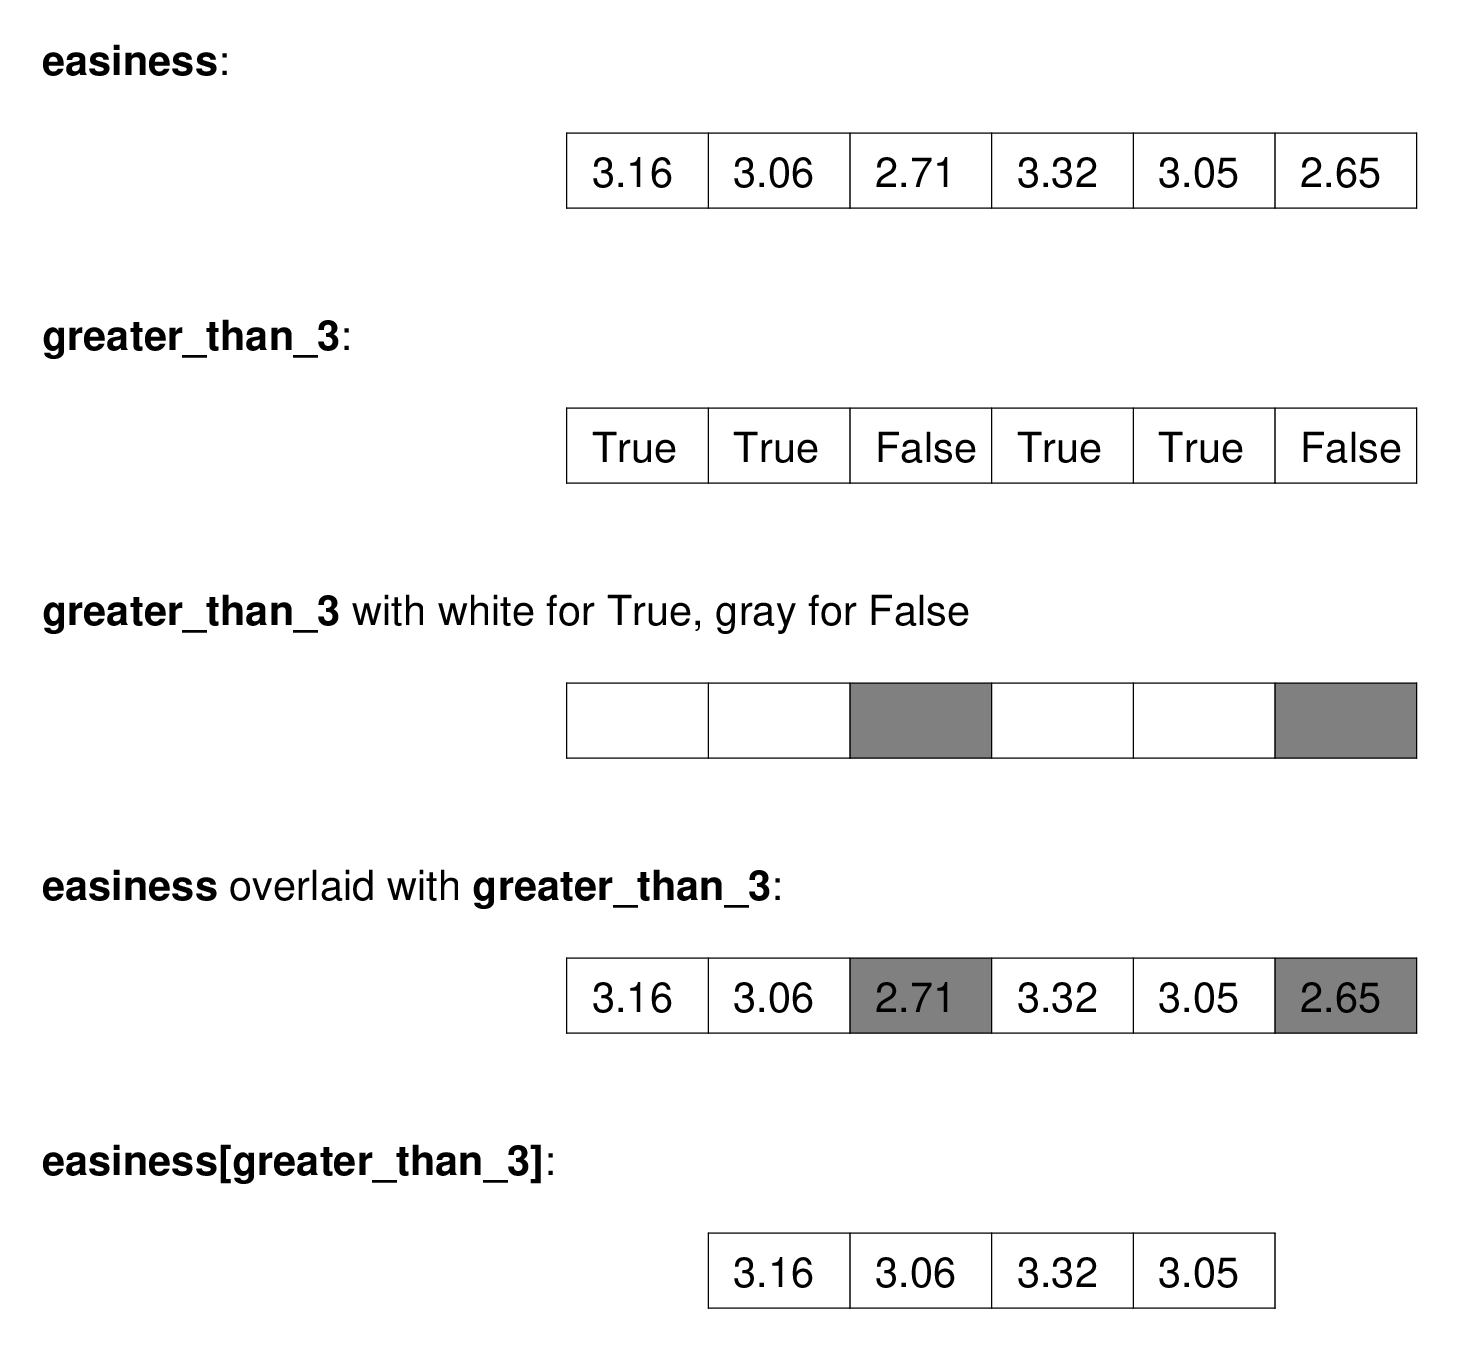
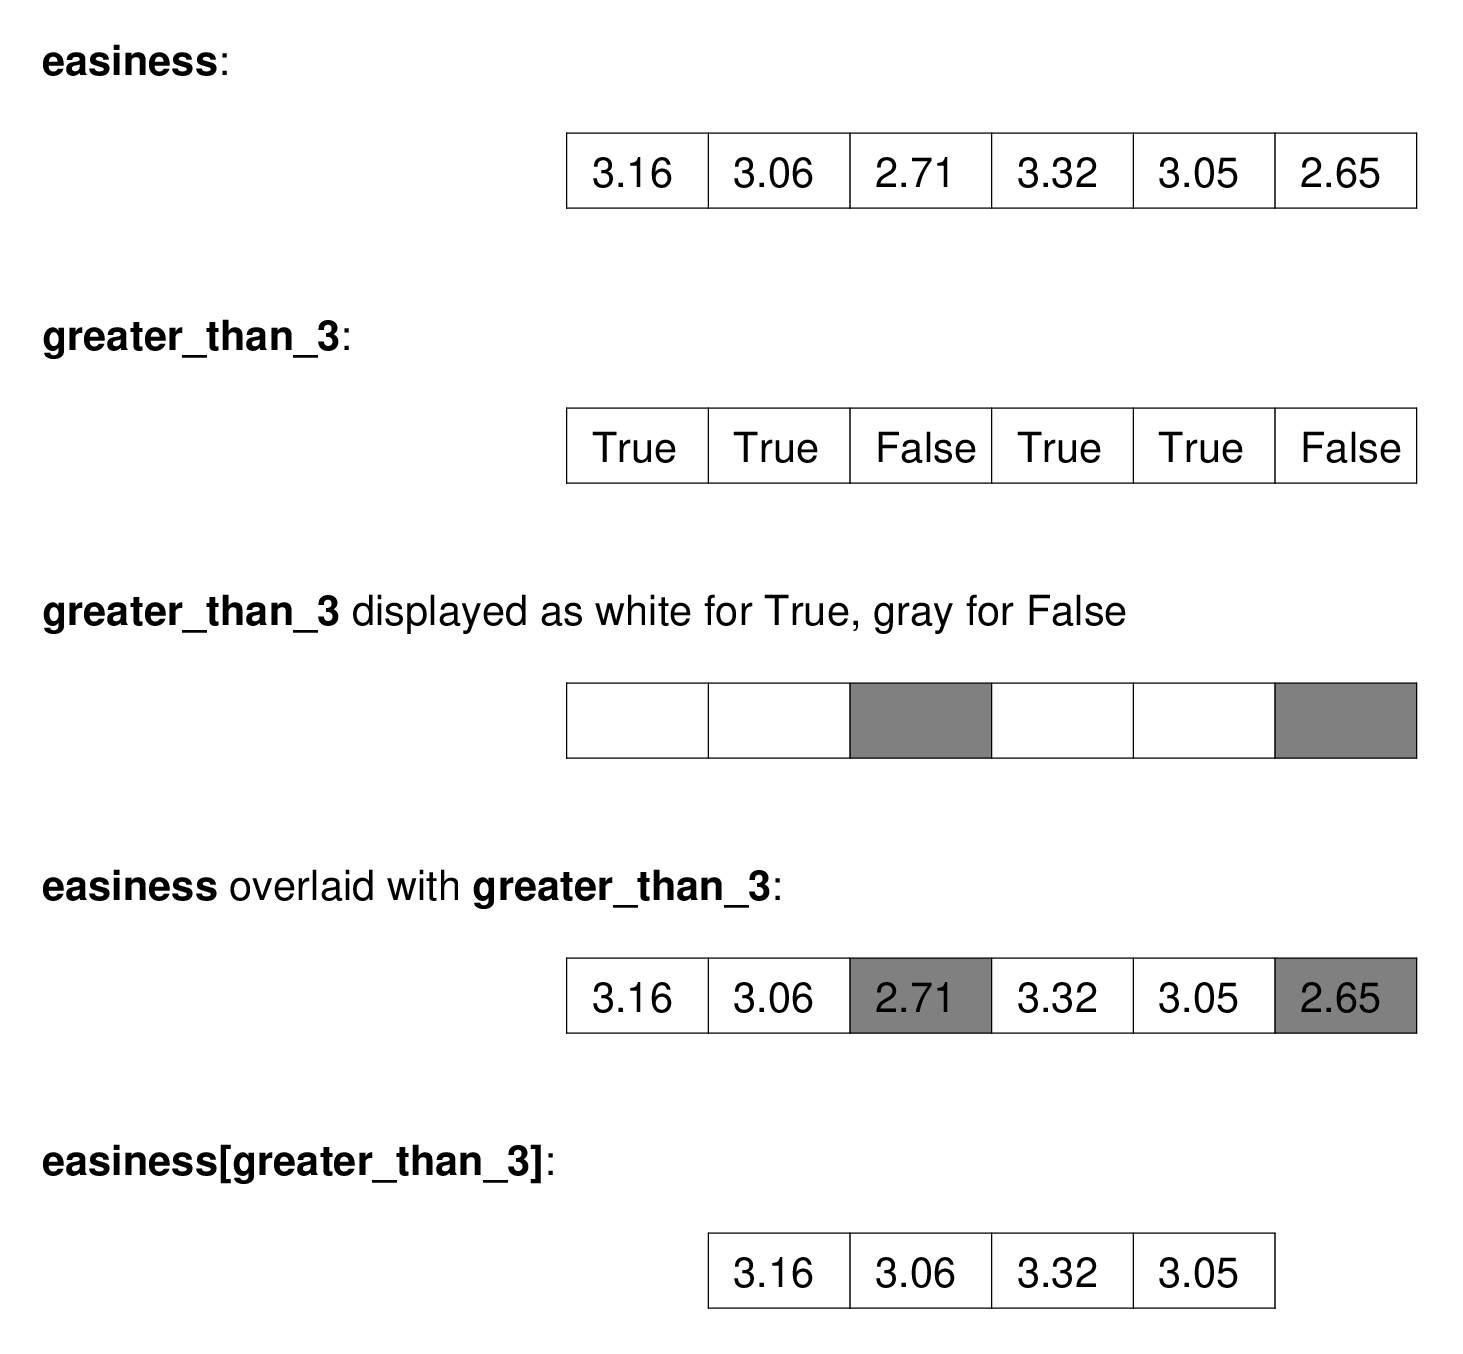
Add graphic for re-using Boolean index.

Changed region(s): [[0.2461, 0.4343, 0.769, 0.4653]]

diff --git a/images/make_boolean_examples.py b/images/make_boolean_examples.py
@@ -21,8 +21,7 @@ disciplines = big_courses['Discipline'].values
 easiness = big_courses['Easiness'].values
 quality = big_courses['Overall Quality'].values
 
-out_froot = "easiness_values"
-pdf_fname = out_froot + '.pdf'
+pdf_fname = "easiness_values.pdf"
 doc = SimpleDocTemplate(pdf_fname, pagesize=letter)
 
 col_widths = 34
@@ -69,20 +68,66 @@ def dp(text, table):
 doc.build(sum([
     dp('<b>easiness</b>:', t1),
     dp('<b>greater_than_3</b>:', t2),
-    dp('<b>greater_than_3</b> with white for True, gray for False', t3),
+    dp('<b>greater_than_3</b> displayed as white for True, gray for False',
+       t3),
     dp('<b>easiness</b> overlaid with <b>greater_than_3</b>:', t4),
     dp('<b>easiness[greater_than_3]</b>:', t5),
 ], []))
 
-# From some TeX distribution.
-check_call(['pdfcrop', pdf_fname,
-            '--margins', '10 10 10 10',
-            pdf_fname])
 
-# ImageMagick
-check_call(['convert', '-strip',
-            '-density', '300',
-            pdf_fname,
-            out_froot + '.png'])
+def write_png(pdf_fname):
+    # From some TeX distribution.
+    check_call(['pdfcrop', pdf_fname,
+                '--margins', '10 10 10 10',
+                pdf_fname])
 
-os.unlink(pdf_fname)
+    # ImageMagick
+    png_fname = op.splitext(pdf_fname)[0] + '.png'
+    check_call(['convert', '-strip',
+                '-density', '300',
+                pdf_fname,
+                png_fname])
+    os.unlink(pdf_fname)
+
+write_png(pdf_fname)
+
+other_array = "easiness_reused.pdf"
+o_doc = SimpleDocTemplate(other_array, pagesize=letter)
+
+col_widths = 70
+o_t1 = Table([list(disciplines)],
+           colWidths=col_widths)
+o_t1.setStyle(TableStyle(grid_stuff))
+
+o_t1a = Table([easy_list],
+              colWidths=col_widths)
+o_t1a.setStyle(TableStyle(grid_stuff))
+
+o_t2 = Table([list(greater_than_3)],
+             colWidths=col_widths)
+o_t2.setStyle(TableStyle(grid_stuff))
+
+o_t3 = Table([[''] * len(greater_than_3)],
+             colWidths=col_widths)
+o_t3.setStyle(TableStyle(grid_stuff + backgrounds))
+
+o_t4 = Table([list(disciplines)],
+             colWidths=col_widths)
+o_t4.setStyle(TableStyle(grid_stuff + backgrounds))
+
+o_t5 = Table([list(disciplines[greater_than_3])],
+             colWidths=col_widths)
+o_t5.setStyle(TableStyle(grid_stuff))
+
+# write the document to disk
+o_doc.build(sum([
+    dp('<b>disciplines</b>:', o_t1),
+    dp('<b>easiness</b>:', o_t1a),
+    dp('<b>greater_than_3</b>:', o_t2),
+    dp('<b>greater_than_3</b> displayed as white for True, gray for False',
+       o_t3),
+    dp('<b>disciplines</b> overlaid with <b>greater_than_3</b>:', o_t4),
+    dp('<b>disciplines[greater_than_3]</b>:', o_t5),
+], []))
+
+write_png(other_array)
